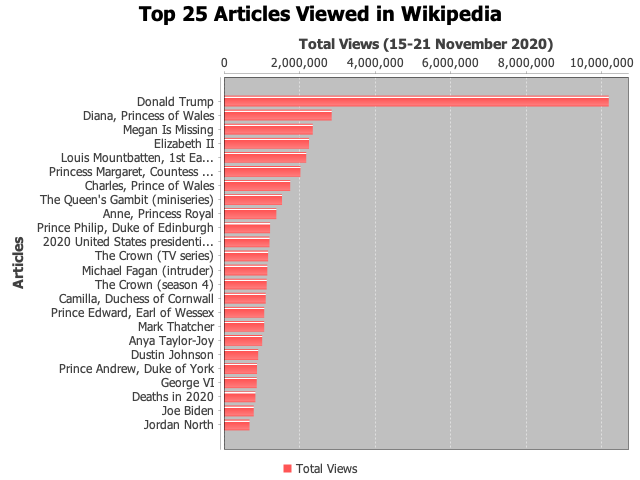
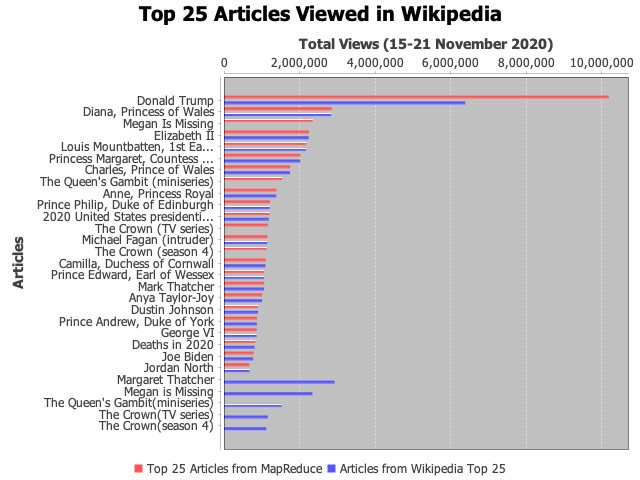
Updated README.md

Changed region(s): [[0.0625, 0.1875, 0.9688, 0.9062], [0.1875, 0.9688, 0.7812, 1.0]]

diff --git a/src/main/java/graphs/BarChartTop25Articles.java b/src/main/java/graphs/BarChartTop25Articles.java
@@ -9,34 +9,61 @@ import org.jfree.data.category.DefaultCategoryDataset;
 
 public class BarChartTop25Articles {
     public static void main(String[ ] args)throws Exception {
-        final String views = "Total Views";
+        final String mapReduce = "Top 25 Articles from MapReduce";
+        final String fromWiki = "Articles from Wikipedia Top 25"
 
         final DefaultCategoryDataset dataset = new DefaultCategoryDataset();
-        dataset.addValue(10184695, views, "Donald Trump");
-        dataset.addValue(2850537, views, "Diana, Princess of Wales");
-        dataset.addValue(2350101, views, "Megan Is Missing");
-        dataset.addValue(2250954, views, "Elizabeth II");
-        dataset.addValue(2177170, views, "Louis Mountbatten, 1st Earl Mountbatten of Burma");
-        dataset.addValue(2023240, views, "Princess Margaret, Countess of Snowdon");
-        dataset.addValue(1752864, views, "Charles, Prince of Wales");
-        dataset.addValue(1535819, views, "The Queen's Gambit (miniseries)");
-        dataset.addValue(1385813, views, "Anne, Princess Royal");
-        dataset.addValue(1219780, views, "Prince Philip, Duke of Edinburgh");
-        dataset.addValue(1204688, views, "2020 United States presidential election");
-        dataset.addValue(1167963, views, "The Crown (TV series)");
-        dataset.addValue(1146805, views, "Michael Fagan (intruder)");
-        dataset.addValue(1130217, views, "The Crown (season 4)");
-        dataset.addValue(1104326, views, "Camilla, Duchess of Cornwall");
-        dataset.addValue(1064908, views, "Prince Edward, Earl of Wessex");
-        dataset.addValue(1064192, views, "Mark Thatcher");
-        dataset.addValue(1010525, views, "Anya Taylor-Joy");
-        dataset.addValue(904725, views, "Dustin Johnson");
-        dataset.addValue(874007, views, "Prince Andrew, Duke of York");
-        dataset.addValue(867108, views, "George VI");
-        dataset.addValue(831095, views, "Deaths in 2020");
-        dataset.addValue(787227, views, "Joe Biden");
-        dataset.addValue(675484, views, "Jordan North");
-
+        //from MapReduce
+        dataset.addValue(10184695, mapReduce, "Donald Trump");
+        dataset.addValue(2850537, mapReduce, "Diana, Princess of Wales");
+        dataset.addValue(2350101, mapReduce, "Megan Is Missing");
+        dataset.addValue(2250954, mapReduce, "Elizabeth II");
+        dataset.addValue(2177170, mapReduce, "Louis Mountbatten, 1st Earl Mountbatten of Burma");
+        dataset.addValue(2023240, mapReduce, "Princess Margaret, Countess of Snowdon");
+        dataset.addValue(1752864, mapReduce, "Charles, Prince of Wales");
+        dataset.addValue(1535819, mapReduce, "The Queen's Gambit (miniseries)");
+        dataset.addValue(1385813, mapReduce, "Anne, Princess Royal");
+        dataset.addValue(1219780, mapReduce, "Prince Philip, Duke of Edinburgh");
+        dataset.addValue(1204688, mapReduce, "2020 United States presidential election");
+        dataset.addValue(1167963, mapReduce, "The Crown (TV series)");
+        dataset.addValue(1146805, mapReduce, "Michael Fagan (intruder)");
+        dataset.addValue(1130217, mapReduce, "The Crown (season 4)");
+        dataset.addValue(1104326, mapReduce, "Camilla, Duchess of Cornwall");
+        dataset.addValue(1064908, mapReduce, "Prince Edward, Earl of Wessex");
+        dataset.addValue(1064192, mapReduce, "Mark Thatcher");
+        dataset.addValue(1010525, mapReduce, "Anya Taylor-Joy");
+        dataset.addValue(904725, mapReduce, "Dustin Johnson");
+        dataset.addValue(874007, mapReduce, "Prince Andrew, Duke of York");
+        dataset.addValue(867108, mapReduce, "George VI");
+        dataset.addValue(831095, mapReduce, "Deaths in 2020");
+        dataset.addValue(787227, mapReduce, "Joe Biden");
+        dataset.addValue(675484, mapReduce, "Jordan North");
+        //from Wikipedia to 25
+        dataset.addValue(6387834, fromWiki, "Donald Trump");
+        dataset.addValue(2929180, fromWiki, "Margaret Thatcher");
+        dataset.addValue(2839941, fromWiki, "Diana, Princess of Wales");
+        dataset.addValue(2340447, fromWiki, "Megan is Missing");
+        dataset.addValue(2241692, fromWiki, "Elizabeth II");
+        dataset.addValue(2169279, fromWiki, "Louis Mountbatten, 1st Earl Mountbatten of Burma");
+        dataset.addValue(2018293, fromWiki, "Princess Margaret, Countess of Snowdon");
+        dataset.addValue(1747672, fromWiki, "Charles, Prince of Wales");
+        dataset.addValue(1526501, fromWiki, "The Queen's Gambit(miniseries)");
+        dataset.addValue(1381775, fromWiki, "Anne, Princess Royal");
+        dataset.addValue(1214063, fromWiki, "Prince Philip, Duke of Edinburgh");
+        dataset.addValue(1187306, fromWiki, "2020 United States presidential election");
+        dataset.addValue(1160739, fromWiki, "The Crown(TV series)");
+        dataset.addValue(1142299, fromWiki, "Michael Fagan (intruder)");
+        dataset.addValue(1120918, fromWiki, "The Crown(season 4)");
+        dataset.addValue(1099346, fromWiki, "Camilla, Duchess of Cornwall");
+        dataset.addValue(1060768, fromWiki, "Prince Edward, Earl of Wessex");
+        dataset.addValue(1059742, fromWiki, "Mark Thatcher");
+        dataset.addValue(1006082, fromWiki, "Anya Taylor-Joy");
+        dataset.addValue(901263, fromWiki, "Dustin Johnson");
+        dataset.addValue(871237, fromWiki, "Prince Andrew, Duke of York");
+        dataset.addValue(863130, fromWiki, "George VI");
+        dataset.addValue(808802, fromWiki, "Deaths in 2020");
+        dataset.addValue(770377, fromWiki, "Joe Biden");
+        dataset.addValue(673774, fromWiki, "Jordan North");
 
         JFreeChart barChart = ChartFactory.createBarChart(
                 "Top 25 Articles Viewed in Wikipedia",

diff --git a/README.md b/README.md
@@ -47,6 +47,9 @@ Authors:
 * [Design](#design)
 * [Testing](#testing)
 * [Results and Analysis](#results-and-analysis)
+  * [Covid Related Wikipedia Articles](#covid-related-wikipedia-articles)
+  * [Sum of Views of Wikipedia Articles](#sum-of-views-of-wikipedia-articles)
+  * [Top 25 Most Viewed Articles in Wikipedia](#top-25-most-viewed-articles-in-wikipedia)
 * [Possible Evolutions](#possible-evolutions)
 * [Documentation](#documentation)
 * [Workload Allocation](#workload-allocation)
@@ -218,11 +221,13 @@ Below are the graphs constructed and analysis inferred from the results of MapRe
 
 ![Line Chart][linechart]
 
-#### Wikipedia Articles
+
+
+#### Sum of Views of Wikipedia Articles
 
 ![Line Chart][linechartsumpageviews]
 
-#### Top 25 Most Viewed Articles
+#### Top 25 Most Viewed Articles in Wikipedia
 
 ![Bar Chart][barchart]
 
